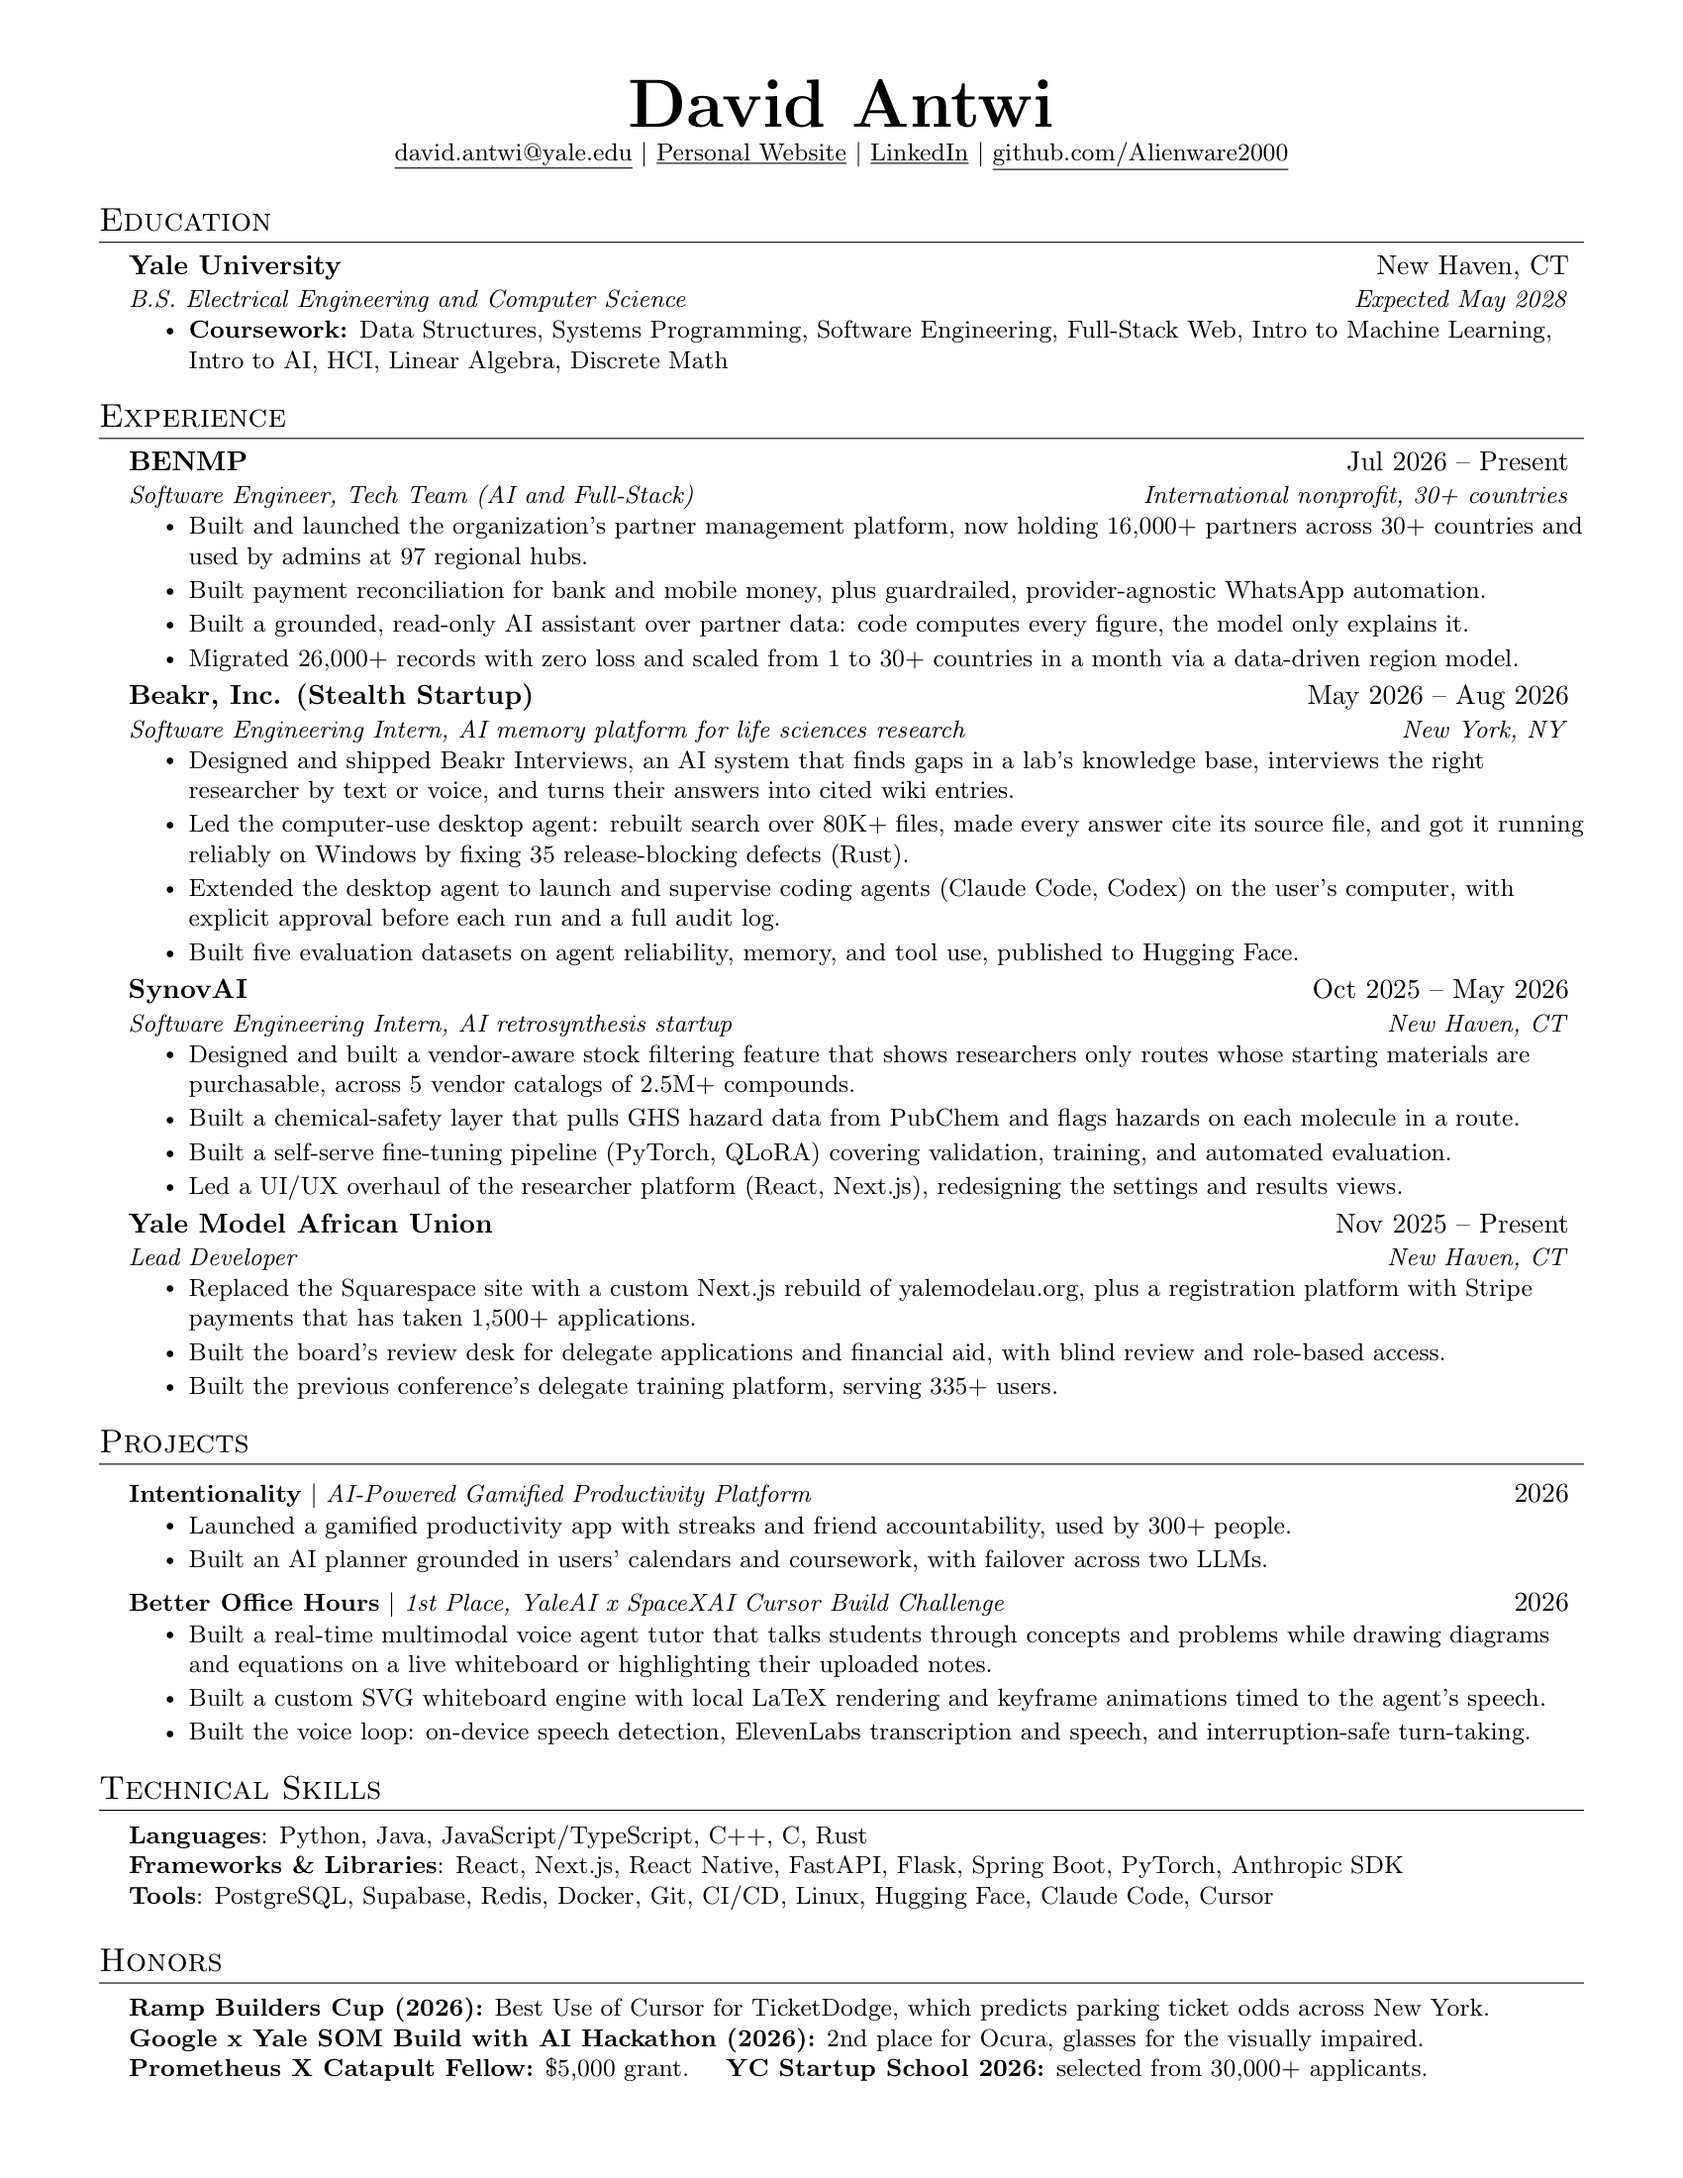
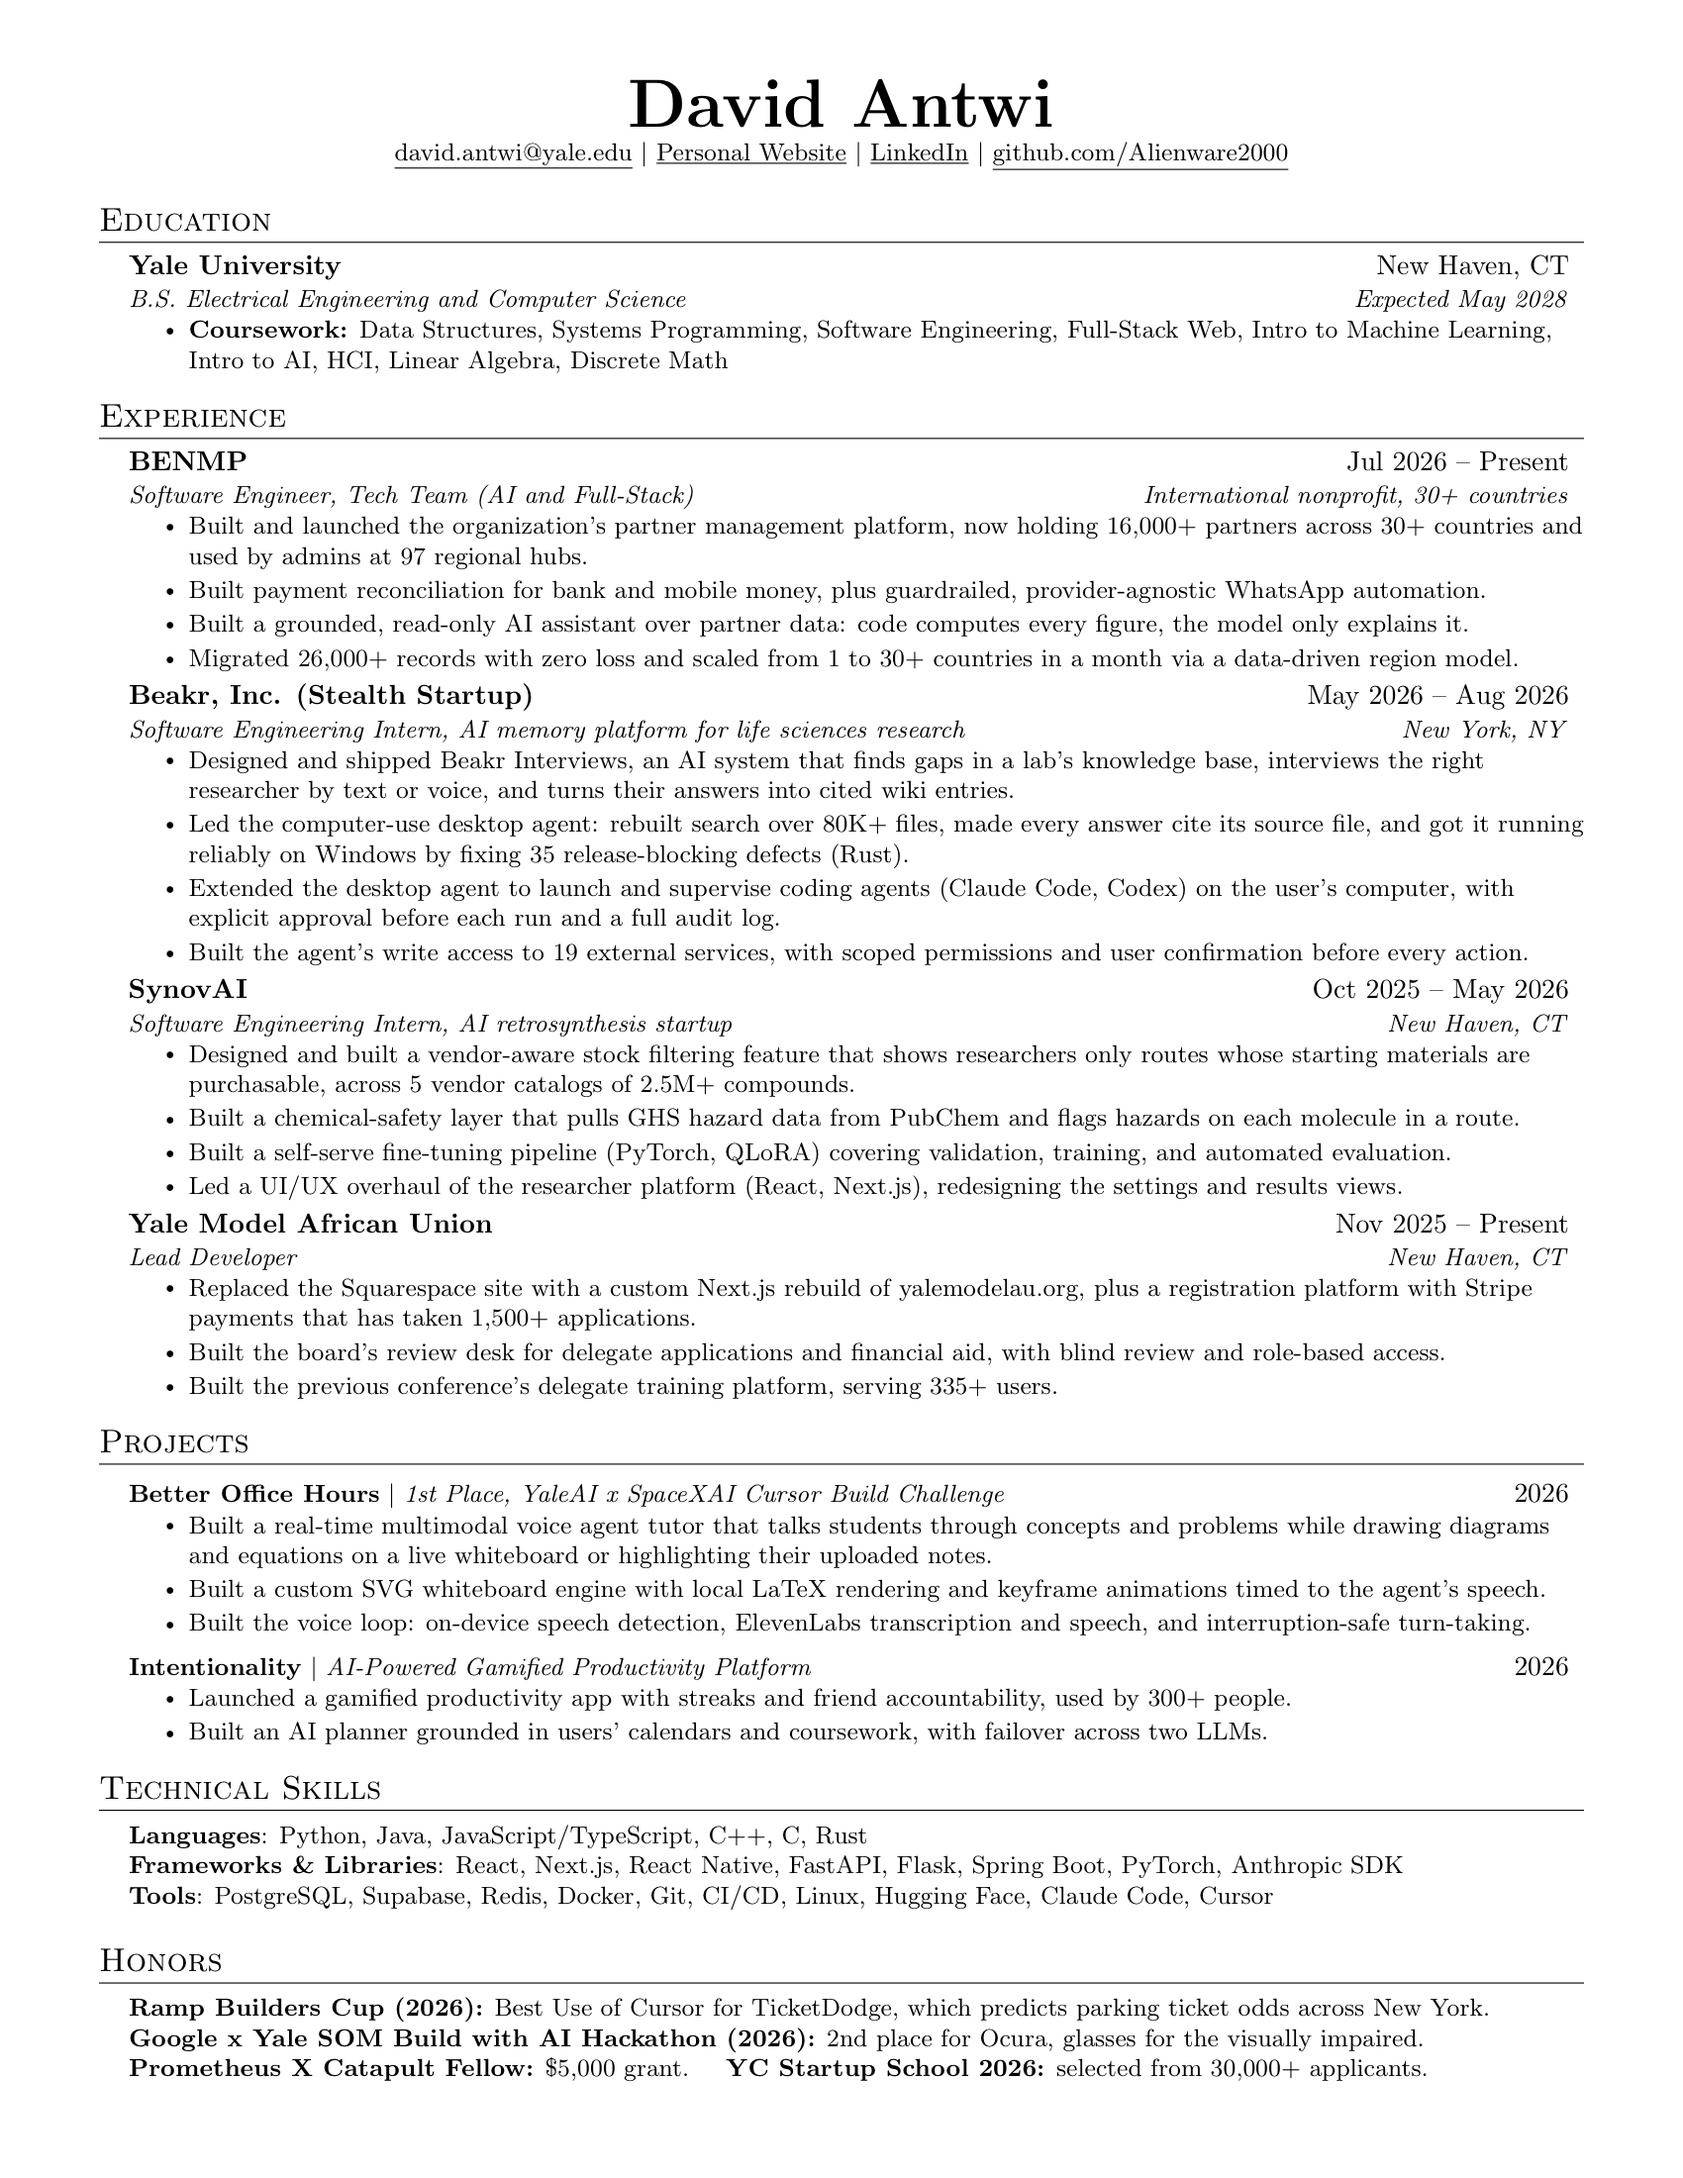
Update resume to latest version and sync Beakr bullet

diff --git a/src/data/profile.js b/src/data/profile.js
@@ -57,7 +57,7 @@ export const experience = [
       "Designed and shipped Beakr Interviews, an AI system that finds gaps in a lab's knowledge base, interviews the right researcher by text or voice, and turns their answers into cited wiki entries.",
       "Led the computer-use desktop agent: rebuilt search over 80K+ files, made every answer cite its source file, and got it running reliably on Windows by fixing 35 release-blocking defects (Rust).",
       "Extended the desktop agent to launch and supervise coding agents (Claude Code, Codex) on the user's computer, with explicit approval before each run and a full audit log.",
-      "Built five evaluation datasets on agent reliability, memory, and tool use, published to Hugging Face.",
+      "Built the agent's write access to 19 external services, with scoped permissions and user confirmation before every action.",
     ],
     stack: ["Rust", "TypeScript", "Python", "Agents", "Evals"],
   },
